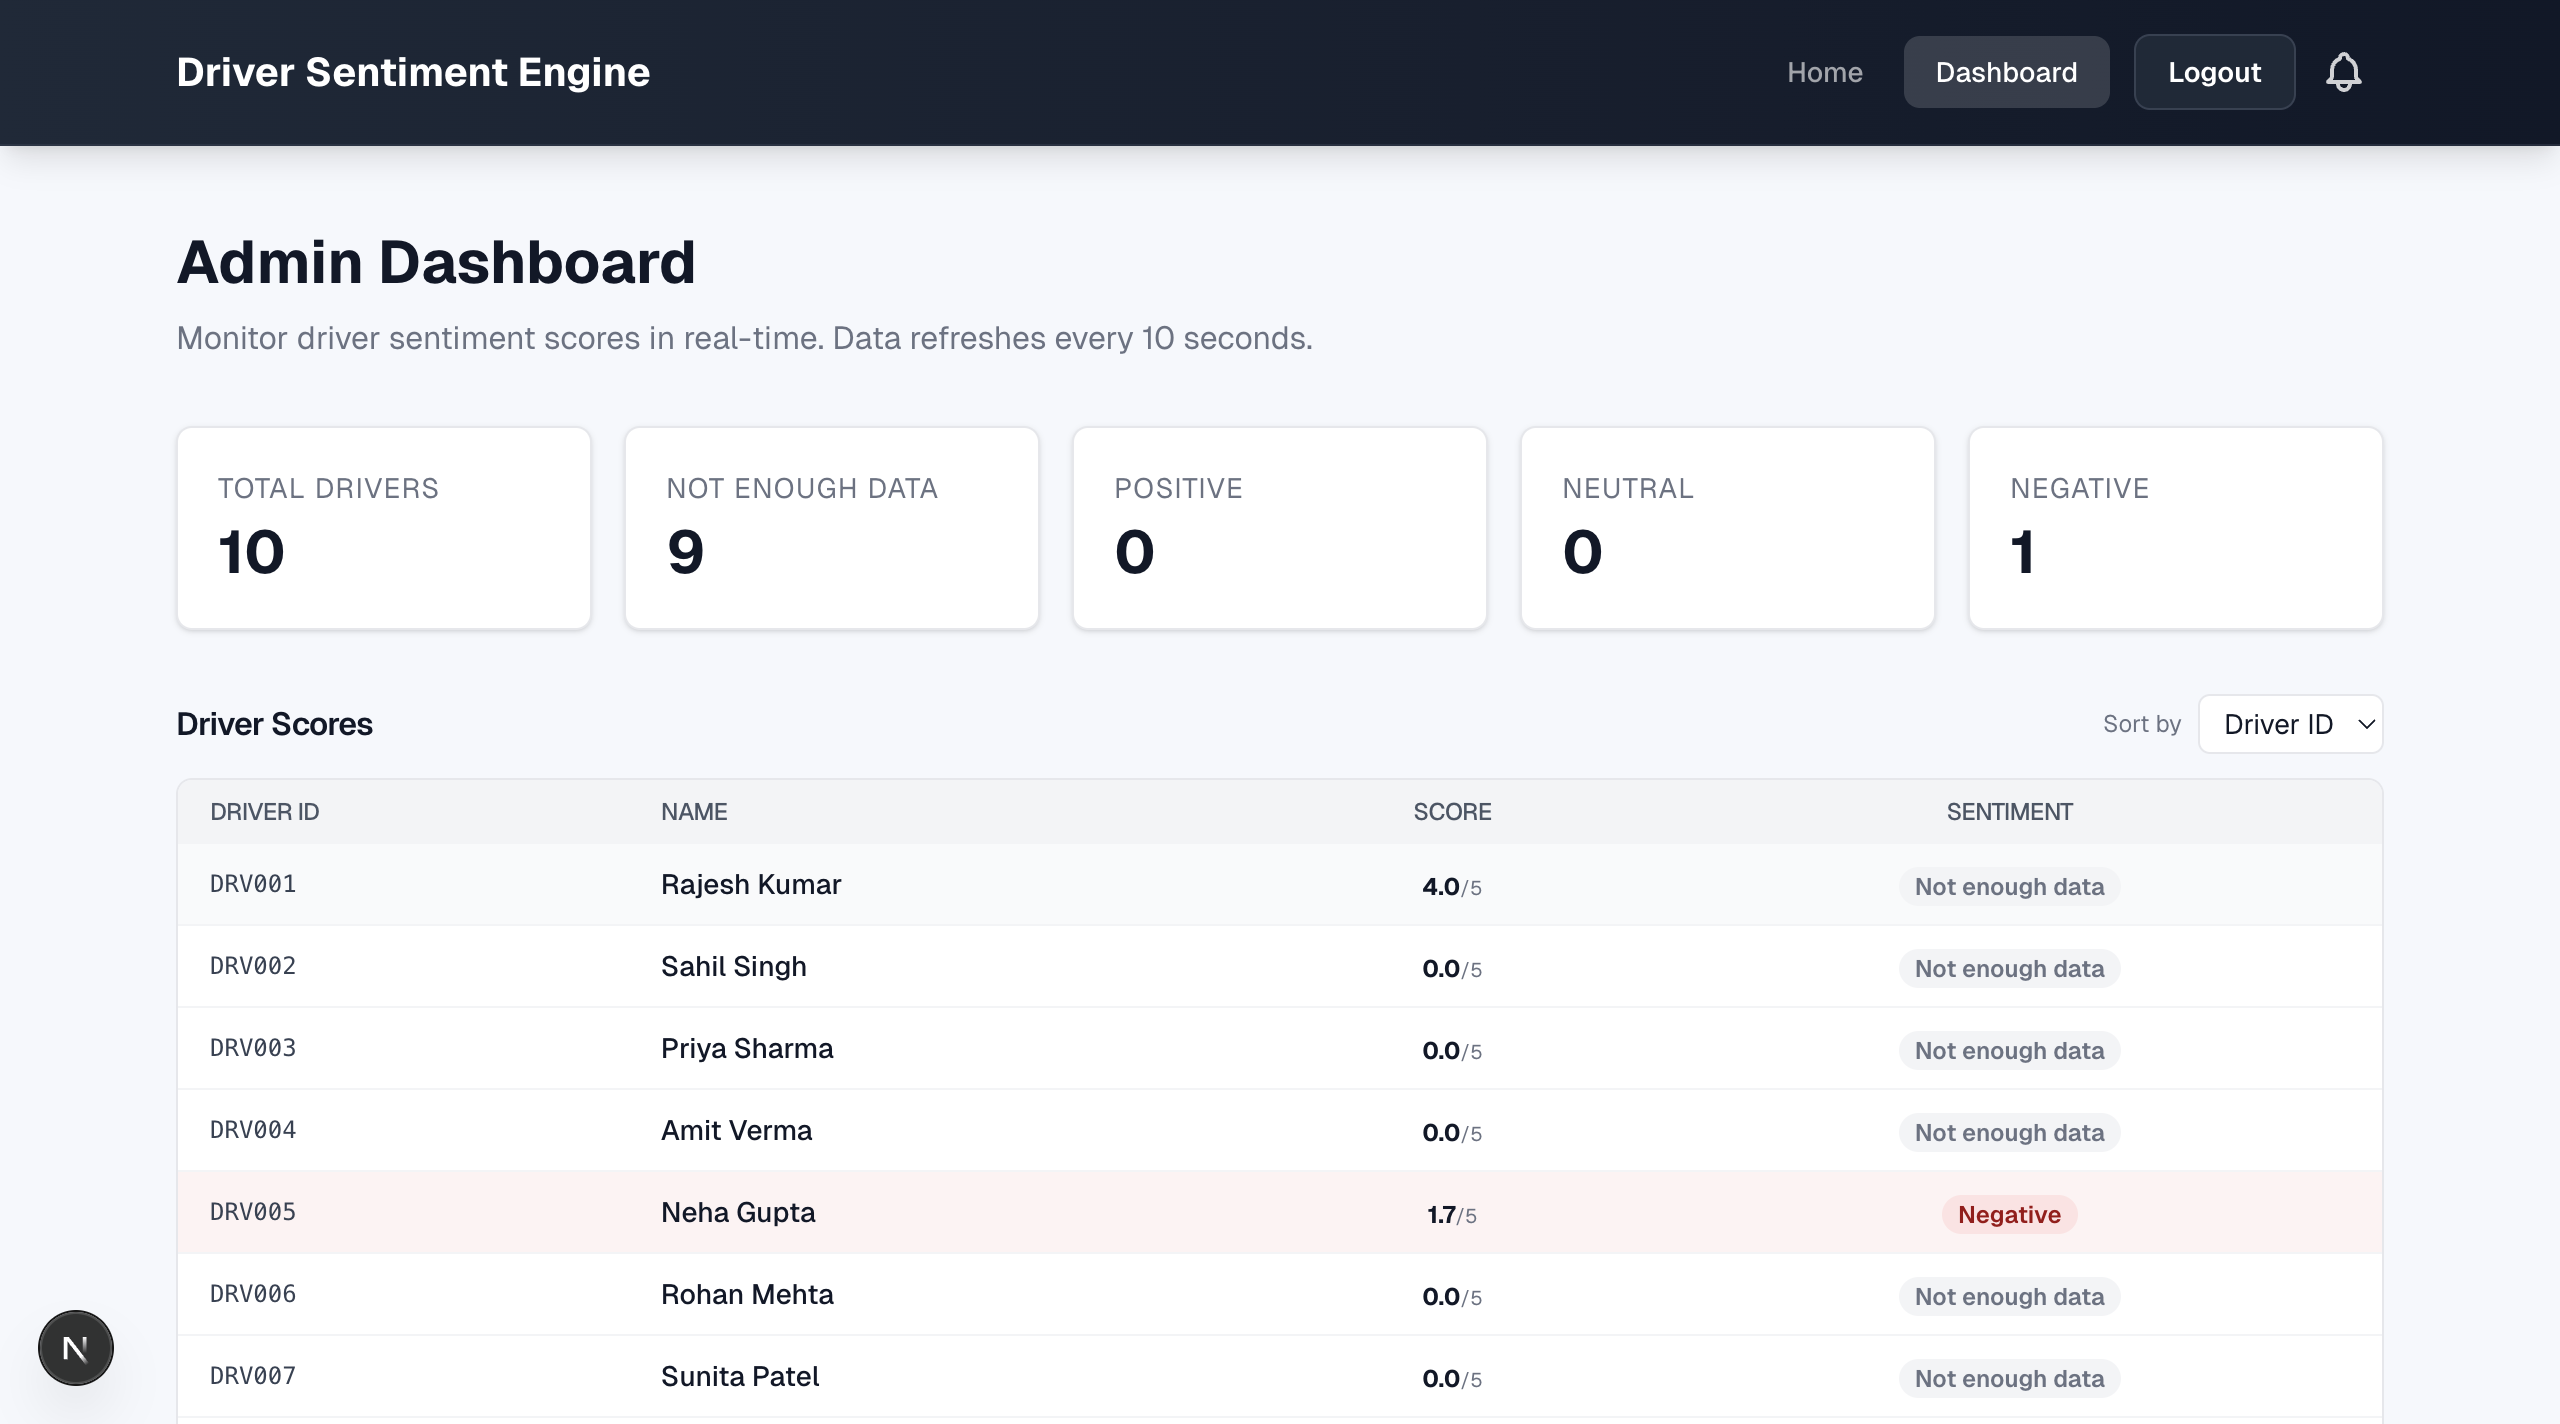
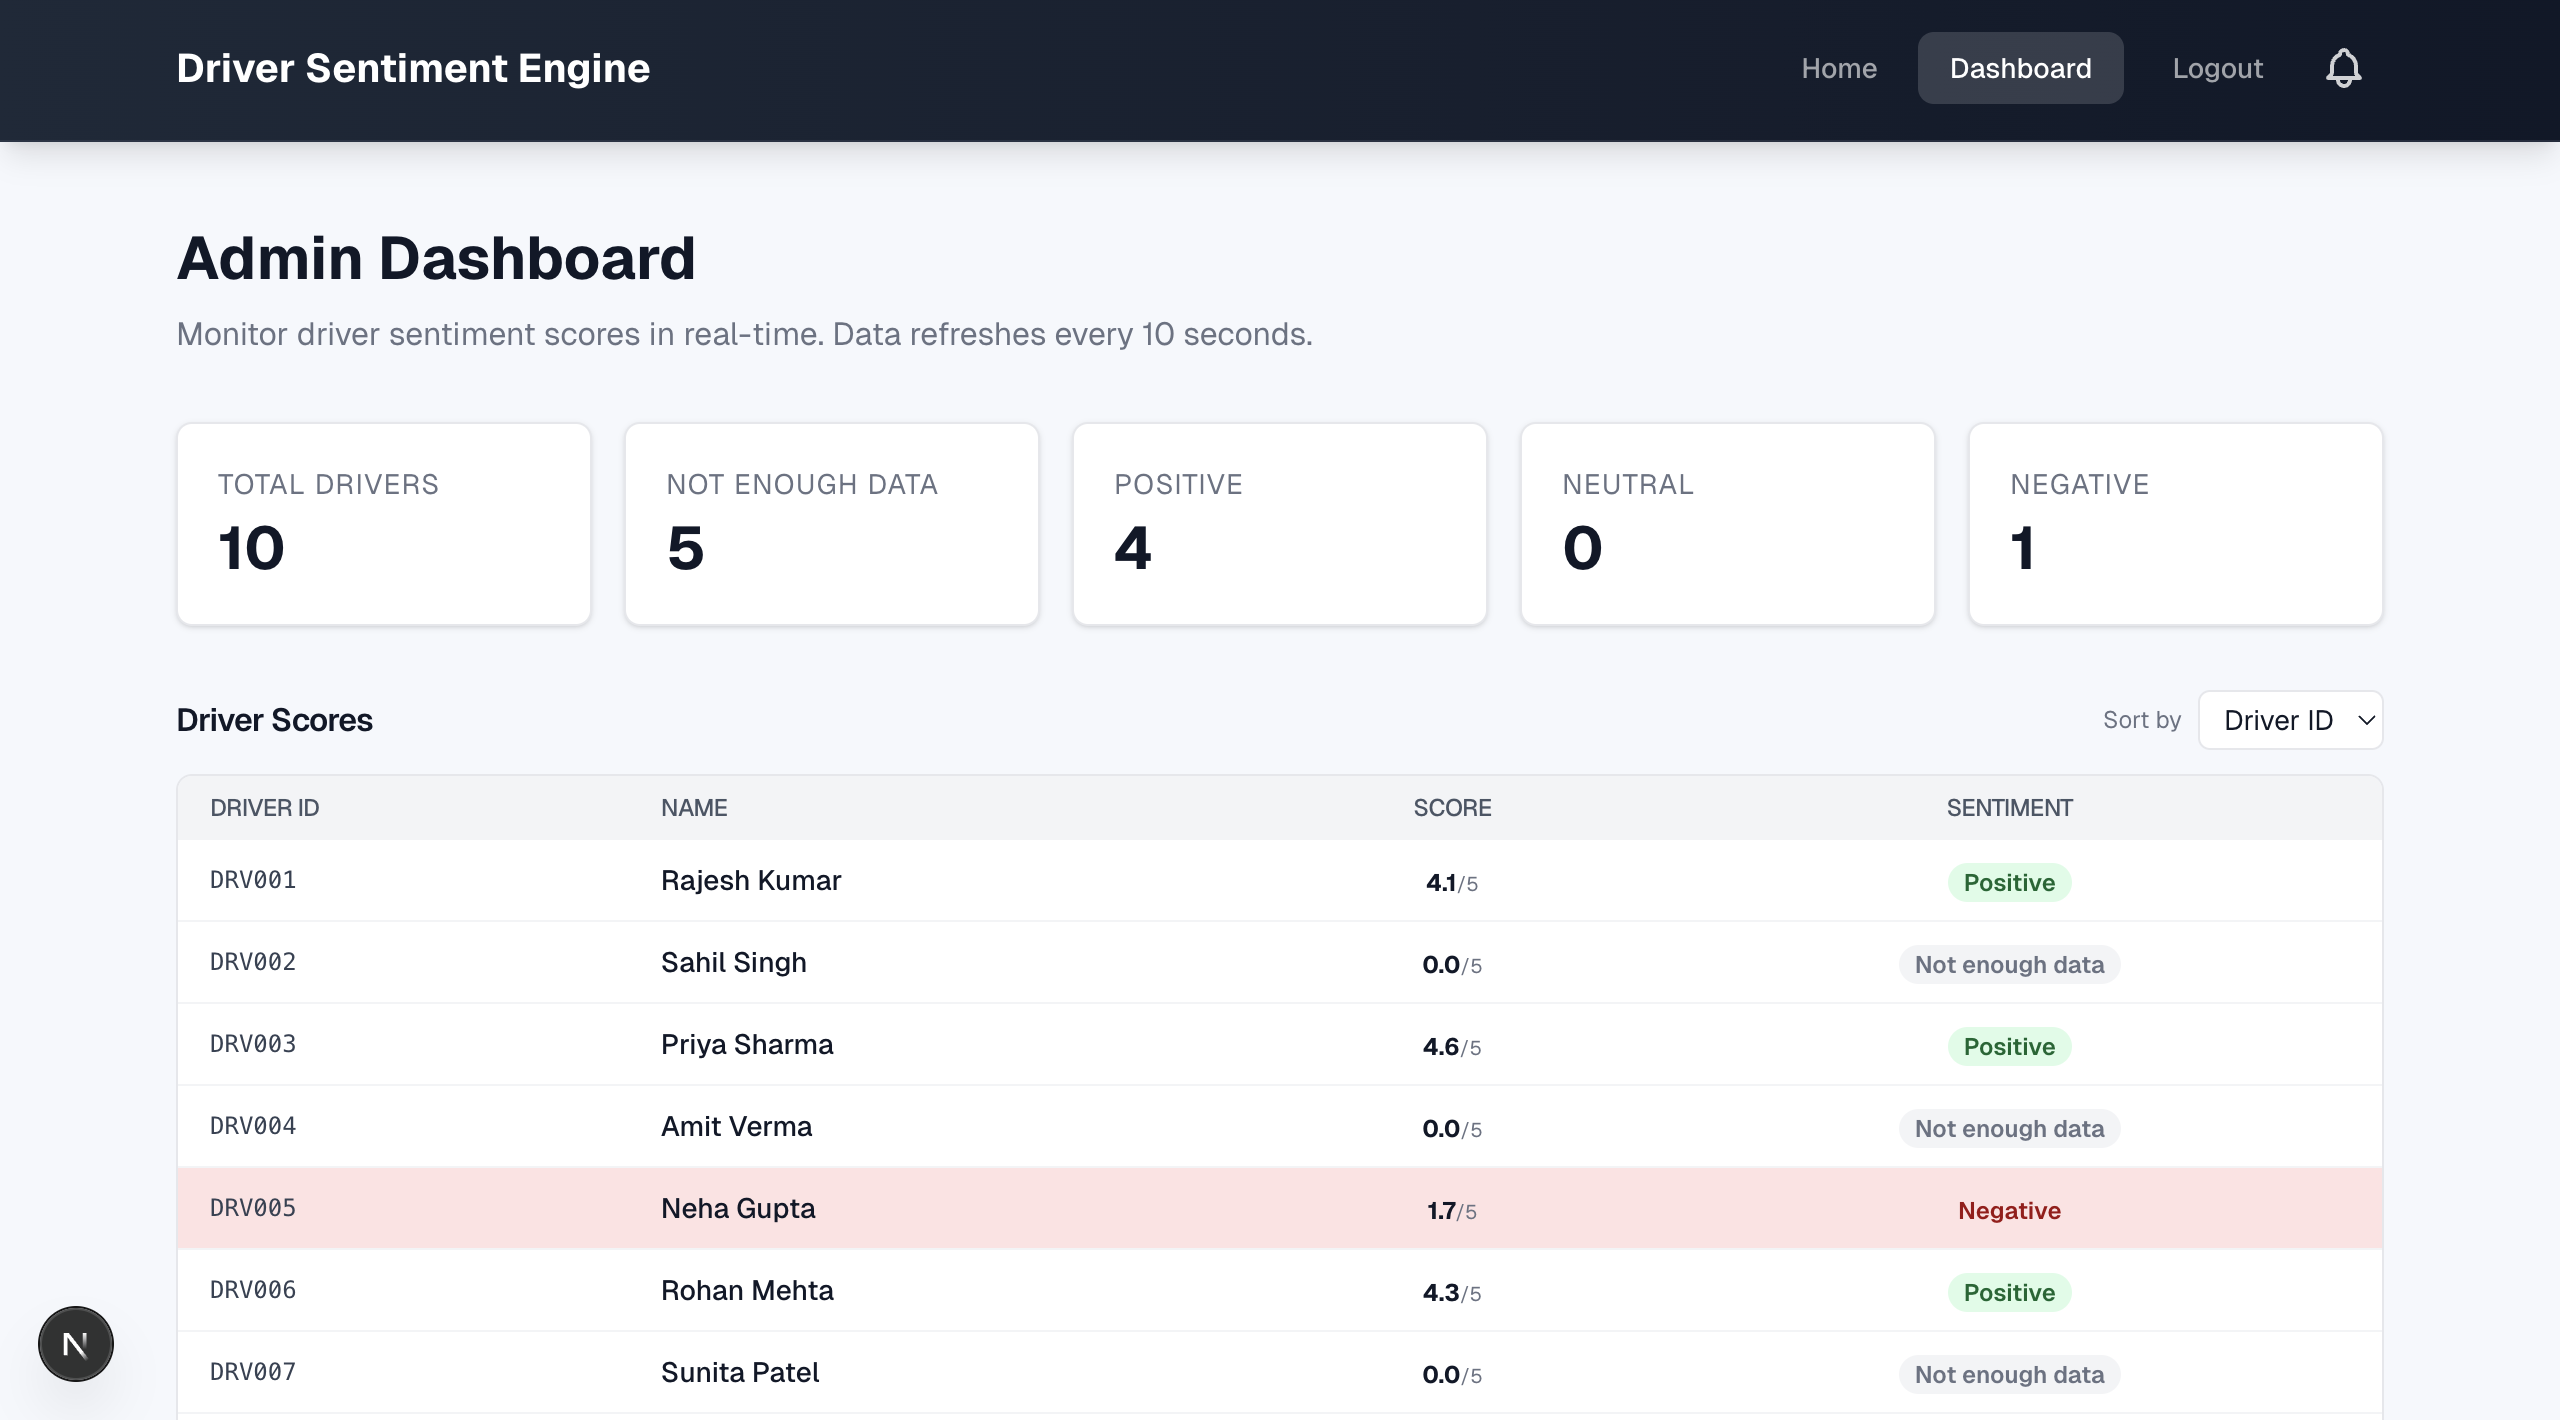
updated admin ss

diff --git a/frontend/src/components/Navbar.tsx b/frontend/src/components/Navbar.tsx
@@ -116,9 +116,9 @@ export default function Navbar() {
             {isClient && (
               <button
                 onClick={isAuthenticated ? handleLogout : () => window.location.href = "/login"}
-                className={`ml-2 px-4 py-2 rounded-lg text-sm font-semibold transition ${isHome
-                  ? "bg-white/10 text-white hover:bg-white/20 border border-white/20"
-                  : "bg-gray-800 text-white hover:bg-gray-700 border border-gray-700"
+                className={`ml-1 px-4 py-2 rounded-lg text-sm font-medium transition ${isHome
+                  ? "text-white/70 hover:bg-white/10 hover:text-white"
+                  : "text-white/60 hover:bg-white/10 hover:text-white"
                   }`}
               >
                 {isAuthenticated ? "Logout" : "Login"}
